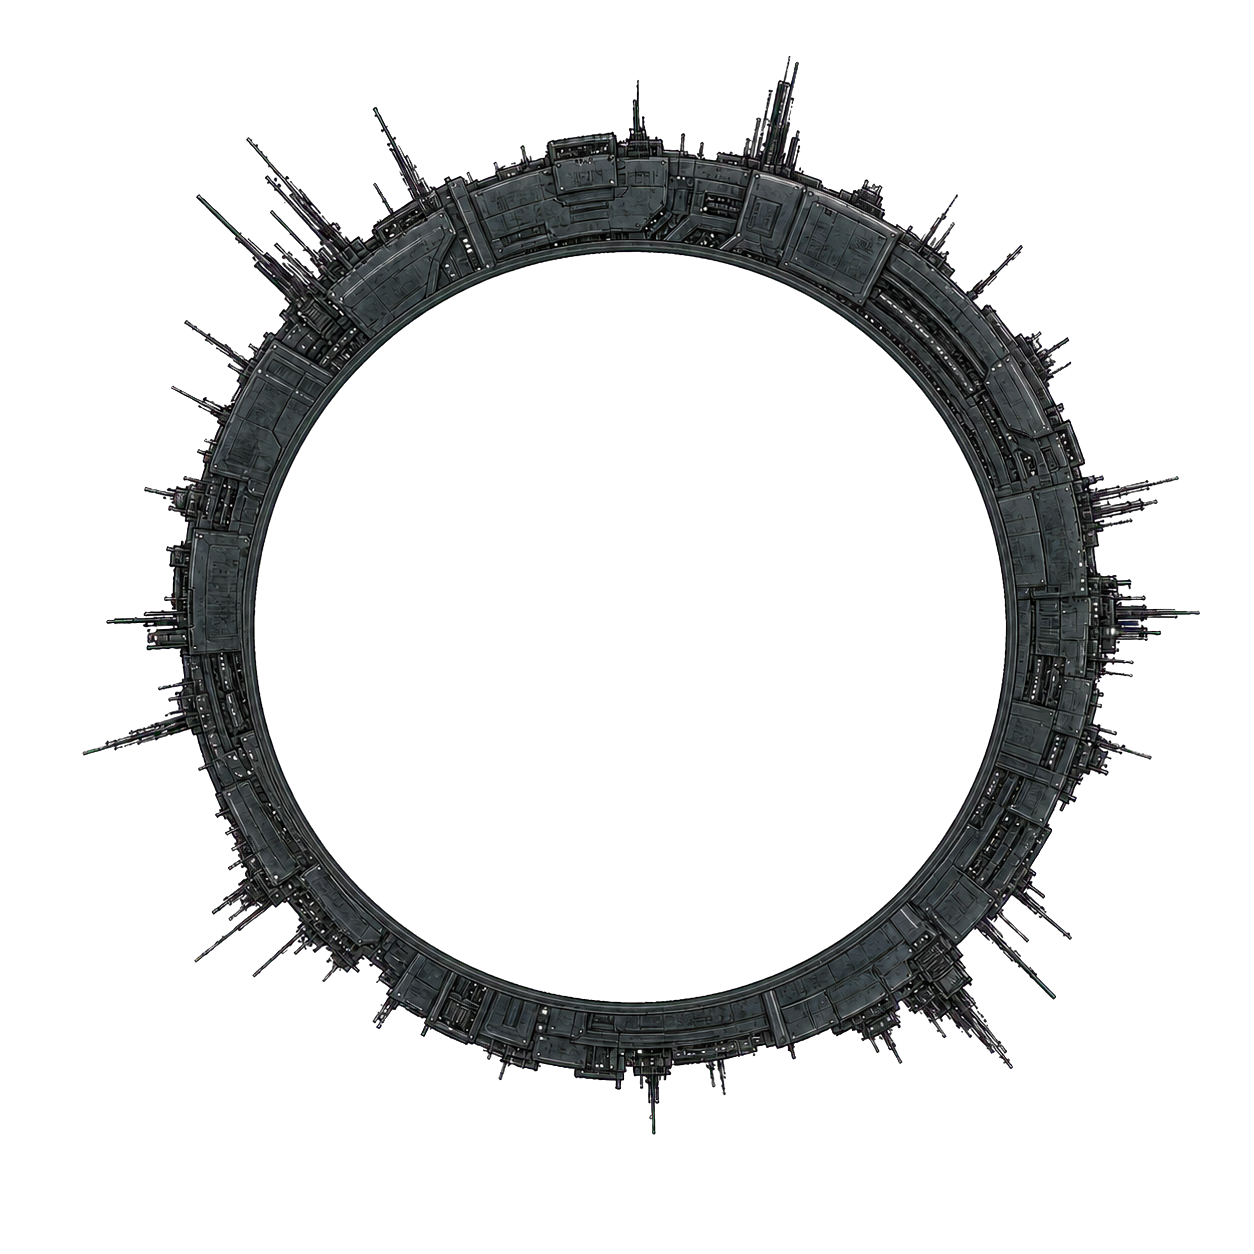
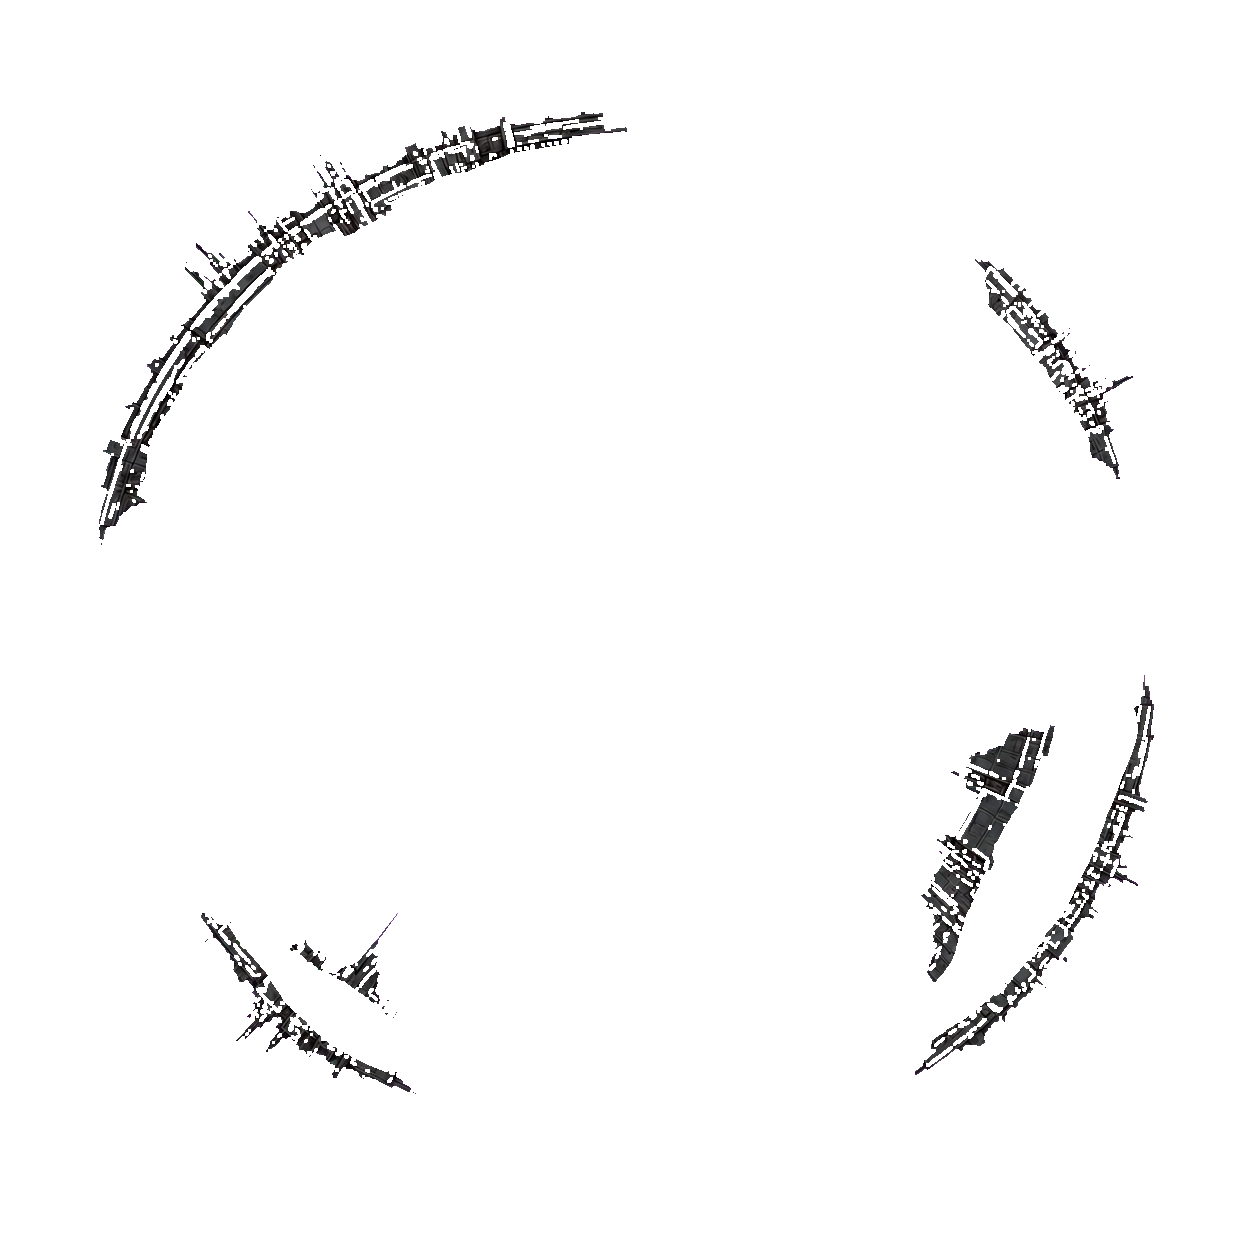
Replace Gan Eden ring with sparse horizon plates

Changed region(s): [[0.0622, 0.0622, 0.933, 0.9019], [0.0622, 0.5909, 0.0933, 0.622]]

diff --git a/README.md b/README.md
@@ -33,7 +33,7 @@ The editable writing aid for this material is in `dialogue/shattered_ring.ink`.
 
 ## Gan Eden
 
-Gan Eden is a deliberately compact, completely siloed star system built inside a prototype Dyson sphere. Its inward-facing surface uses a spherical projection of a custom 2:1 world map, so the geography itself curves and foreshortens into the circular horizon around the warm central star. Beyond the playable space, a white atmospheric haze deepens toward blue as the viewing angle approaches that inner surface. An asymmetric annulus of dark armor plate, recessed machinery, repair sections, and outward antenna spars frames the circular edge of the constructed world. This **Altitude Warning** zone softly decelerates approaching fleets and rebounds them toward the star without causing hull, combat-readiness, or crew damage. Complete blackness lies outside the sphere's circular aperture.
+Gan Eden is a deliberately compact, completely siloed star system built inside a prototype Dyson sphere. Its inward-facing surface uses a spherical projection of a custom 2:1 world map, so the geography itself curves and foreshortens into the circular horizon around the warm central star. Beyond the playable space, a white atmospheric haze deepens toward blue as the viewing angle approaches that inner surface. Sparse, disconnected remnants of dark Domain-era armor and machinery cling to the horizon, with irregular plates and antenna spars encroaching over the constructed world's inner surface. This **Altitude Warning** zone softly decelerates approaching fleets and rebounds them toward the star without causing hull, combat-readiness, or crew damage. Complete blackness lies outside the sphere's circular aperture.
 
 Gan Eden has no markets, objectives, ambient NPC fleets, jump points, nascent gravity wells, or hyperspace anchor. 
 ## Music credits
